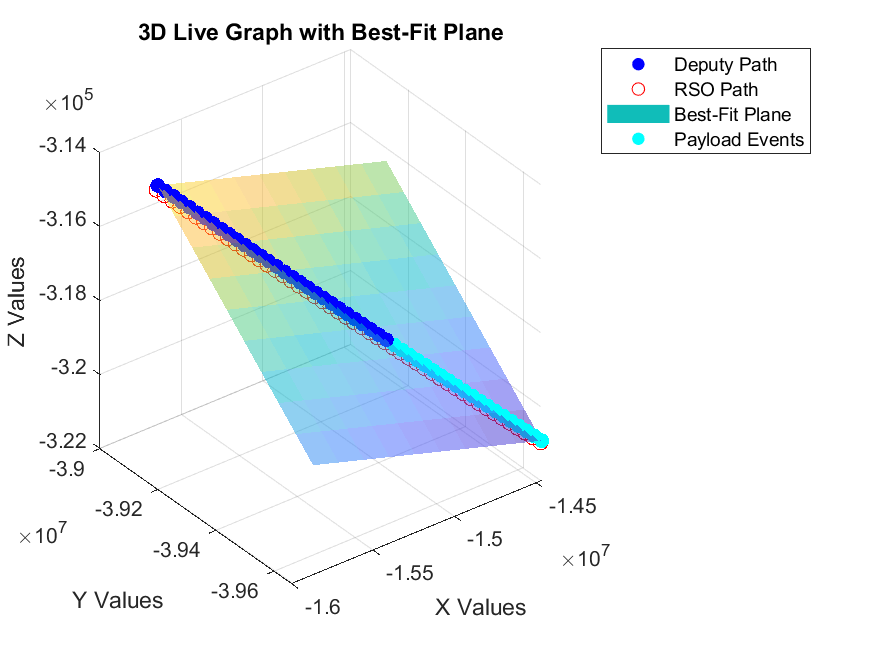
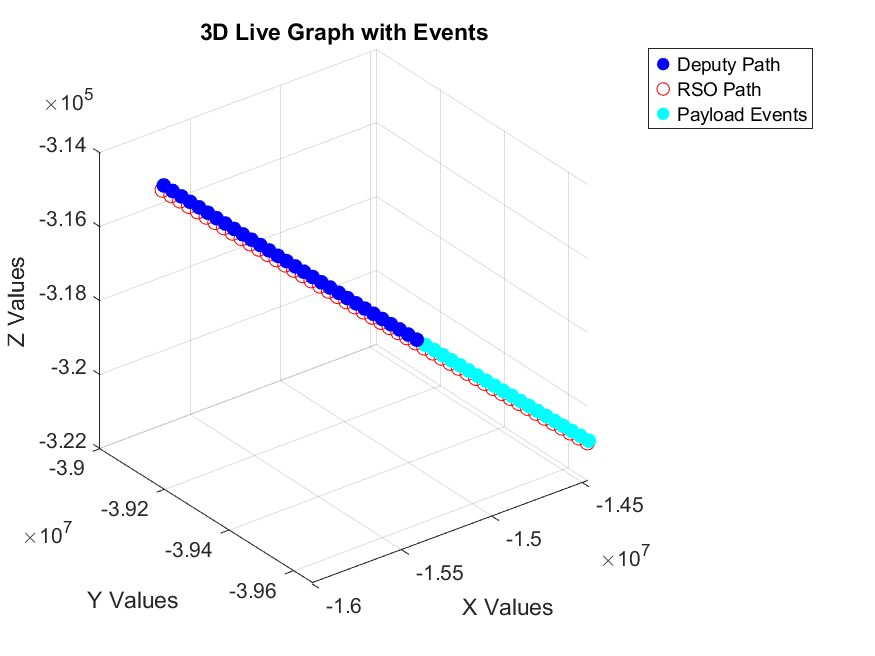
Cleaned up mat1 and removed plane

diff --git a/trajectoryFreaks/mat.py b/trajectoryFreaks/mat.py
@@ -1,50 +1,9 @@
 import matlab.engine
 import os
-import numpy as np
 import sys
-import matplotlib.pyplot as plt
 # Add the parent directory to sys.path
 sys.path.append(os.path.abspath(os.path.join(os.path.dirname(__file__), '..')))
-
-# Now import SQL from basicServer
-from basicServer import SQL
-
-
-def best_fit_plane(x, y, z):
-    """Fits a best-fit plane to given 3D points and returns the plot and equation."""
-
-    # Convert input to numpy arrays
-    x, y, z = np.array(x), np.array(y), np.array(z)
-
-    # Create the design matrix for linear regression (Ax + By + C = Z)
-    A = np.column_stack((x, y, np.ones_like(x)))
-    
-    # Solve for coefficients [A, B, C] in the equation z = Ax + By + C
-    C, _, _, _ = np.linalg.lstsq(A, z, rcond=None)
-
-    # Generate surface for visualization
-    x_fit = np.linspace(min(x), max(x), 10)
-    y_fit = np.linspace(min(y), max(y), 10)
-    X_fit, Y_fit = np.meshgrid(x_fit, y_fit)
-    Z_fit = C[0] * X_fit + C[1] * Y_fit + C[2]  # Compute best-fit plane
-
-    # Plot data points and best-fit plane
-    fig = plt.figure(figsize=(8, 6))
-    ax = fig.add_subplot(111, projection='3d')
-    ax.scatter(x, y, z, color='blue', label='Original Data')
-    ax.plot_surface(X_fit, Y_fit, Z_fit, alpha=0.5, color='r')
-
-    # Labels and title
-    ax.set_xlabel('X Values')
-    ax.set_ylabel('Y Values')
-    ax.set_zlabel('Z Values')
-    ax.set_title('Best-Fit Plane in 3D')
-    ax.legend()
-
-    # Generate the best-fit plane equation as a string
-    equation = f"z = {C[0]:.4f}x + {C[1]:.4f}y + {C[2]:.4f}"
-    plt.close(fig)
-    return fig, C # Returns the figure and equation string
+from basicServer import SQL # Now import SQL from basicServer
 
 def main(lowerbound, upperbound):
     # Start MATLAB Engine
@@ -64,10 +23,7 @@ def main(lowerbound, upperbound):
         """
     rpoData = s.query(q,(lowerbound, upperbound))
 
-    # Get the times for each position
-    rpoTimes = [row[0] for row in rpoData]
-
-    # Plot Deputy-----------------------------------------------------------------------
+    # Plot Deputy -----------------------------------------------------------------------
     # Get Deputy's positions from the sheet
     deputyXpos = [row[14] for row in rpoData]
     deputyYpos = [row[15] for row in rpoData]
@@ -84,13 +40,10 @@ def main(lowerbound, upperbound):
     eng.xlabel('X Values', nargout=0)
     eng.ylabel('Y Values', nargout=0)
     eng.zlabel('Z Values', nargout=0)
-    eng.title('3D Live Graph with Best-Fit Plane', nargout=0)
+    eng.title('3D Live Graph with Events', nargout=0)
     eng.grid('on', nargout=0)
     eng.legend('Deputy Path', nargout=0) # Specifies name for already initialized scatter
     eng.hold('on', nargout=0)  # Keep scatter points when adding the plane
-
-    # Variable to store plane handle
-    plane_handle = None  # Initially no plane
 
     # Convert updated lists to MATLAB arrays
     x_mat = matlab.double(deputyXpos)
@@ -100,7 +53,7 @@ def main(lowerbound, upperbound):
     # Update scatter plot data without deleting it
     eng.set(scatter_handle, 'XData', x_mat, 'YData', y_mat, 'ZData', z_mat, nargout=0)
 
-    # Plot Chief--------------------------------------------------------------------------
+    # Plot Chief --------------------------------------------------------------------------
     # Get Deputy's positions from the sheet
     chiefXpos=[row[8] for row in rpoData]
     chiefYpos=[row[9] for row in rpoData]
@@ -121,26 +74,6 @@ def main(lowerbound, upperbound):
 
     # Update scatter plot data without deleting it
     eng.set(scatter_handle, 'XData', x_mat, 'YData', y_mat, 'ZData', z_mat, nargout=0)
-
-    # Compute best-fit plane for Deputy ----------------------------------------------------------
-    _, equation = best_fit_plane(deputyXpos, deputyYpos, deputyZpos)
-
-    # Extract coefficients (z = Ax + By + C)
-    A, B, C = equation[0], equation[1], equation[2]
-
-    # Generate a mesh grid for the plane
-    x_fit = np.linspace(min(deputyXpos), max(deputyXpos), 10)
-    y_fit = np.linspace(min(deputyYpos), max(deputyYpos), 10)
-    X_fit, Y_fit = np.meshgrid(x_fit, y_fit)
-    Z_fit = A * X_fit + B * Y_fit + C  # Compute Z from the plane equation
-
-    # Convert plane data to MATLAB format
-    X_mat = matlab.double(X_fit.tolist())
-    Y_mat = matlab.double(Y_fit.tolist())
-    Z_mat = matlab.double(Z_fit.tolist())
-
-    # Add the new best-fit plane
-    plane_handle = eng.surf(X_mat, Y_mat, Z_mat, 'FaceAlpha', 0.5, 'EdgeColor', 'none', "DisplayName", "Best-Fit Plane", nargout=1)  # 50% transparency
 
     # Highlight points when maneuvers occur -------------------------------------------------------------
     # Get the times of maneuvers that occur within our bounds
